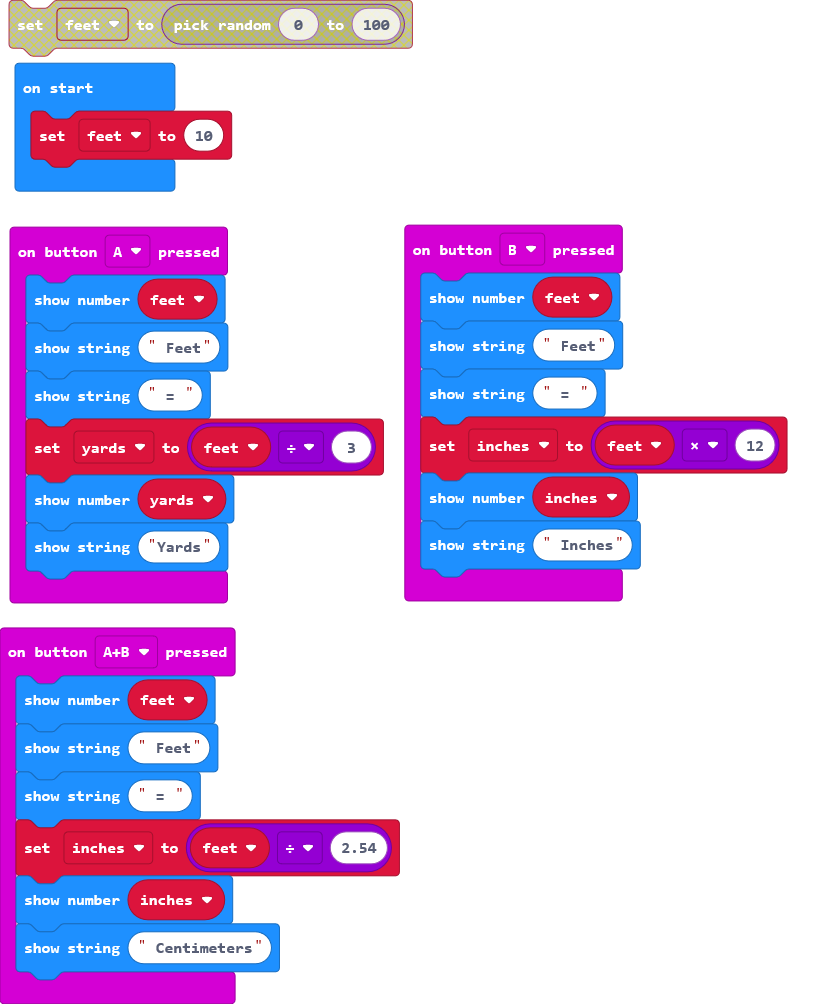
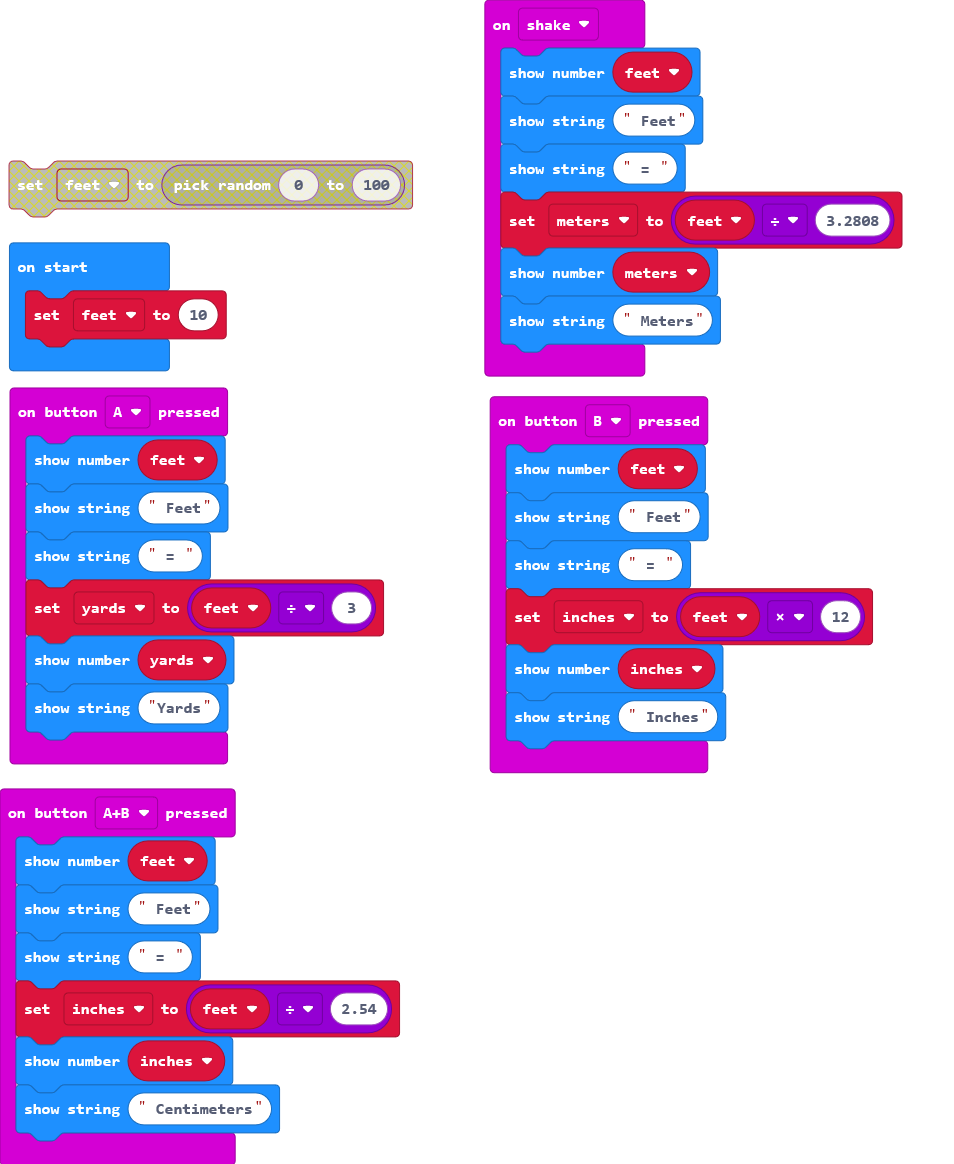
meters

diff --git a/main.ts b/main.ts
@@ -22,6 +22,15 @@ input.onButtonPressed(Button.B, function () {
     basic.showNumber(inches)
     basic.showString(" Inches")
 })
+input.onGesture(Gesture.Shake, function () {
+    basic.showNumber(feet)
+    basic.showString(" Feet")
+    basic.showString(" = ")
+    meters = feet / 3.2808
+    basic.showNumber(meters)
+    basic.showString(" Meters")
+})
+let meters = 0
 let inches = 0
 let yards = 0
 let feet = 0
